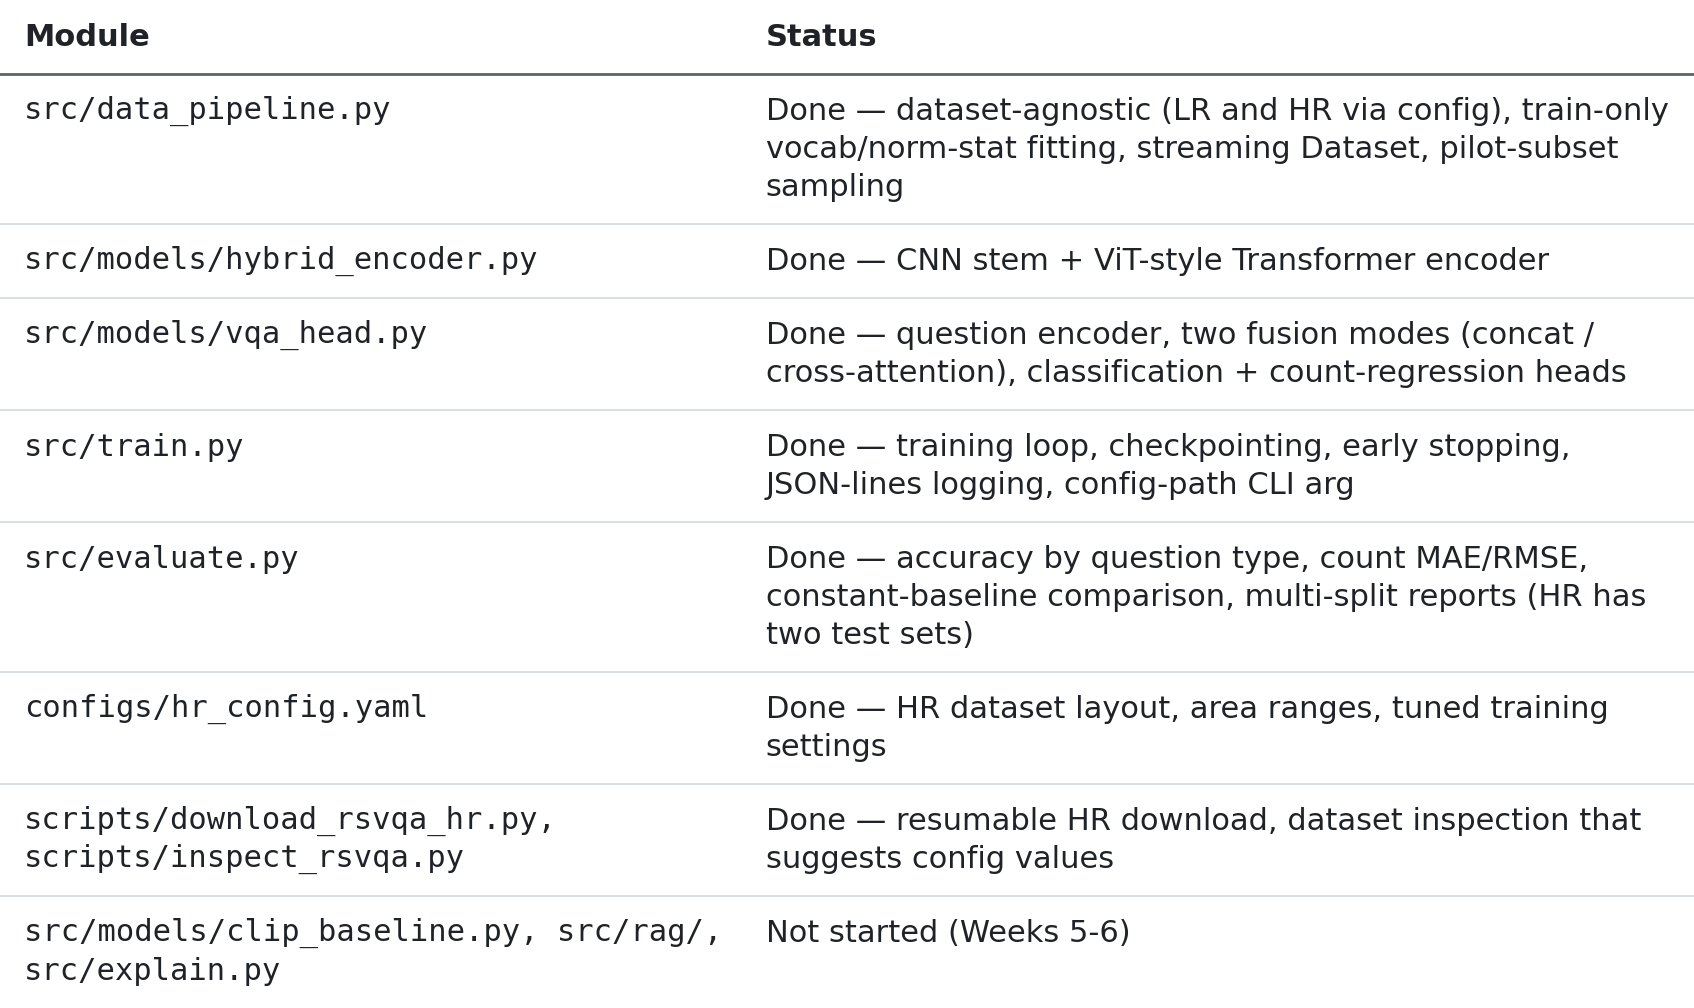
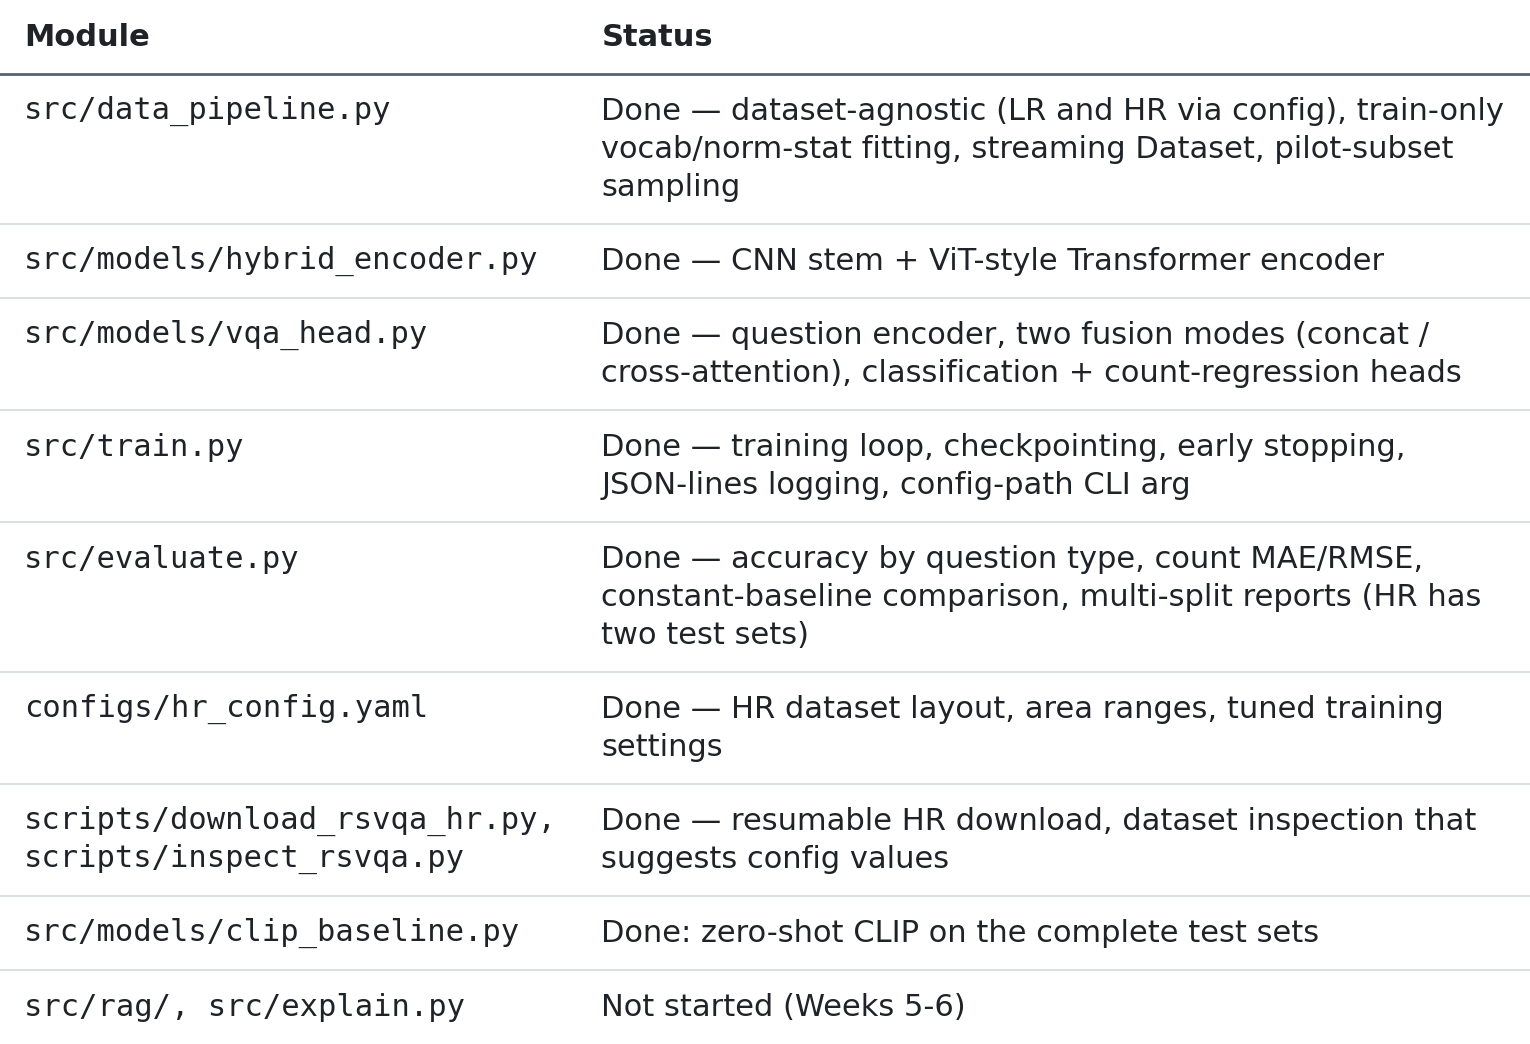
Record zero-shot CLIP results on the complete test sets

Changed region(s): [[0.0, 0.0, 1.0, 0.9841], [0.0, 0.6458, 0.2765, 0.7381], [0.0, 0.3998, 0.1536, 0.4613]]

diff --git a/README.md b/README.md
@@ -17,7 +17,7 @@ follows.
 **Week 1 (RSVQA-LR pipeline) is complete, trained, and evaluated.**
 **Weeks 2-4 (RSVQA-HR port, tuning, full run) are complete, trained, and evaluated.**
 
-<img src="reports/figures/table_01.png" alt="Status: Module, Status" width="847">
+<img src="reports/figures/table_01.png" alt="Status: Module, Status" width="765">
 
 <details><summary>Table as text</summary>
 
@@ -30,7 +30,8 @@ follows.
 | `src/evaluate.py` | Done — accuracy by question type, count MAE/RMSE, constant-baseline comparison, multi-split reports (HR has two test sets) |
 | `configs/hr_config.yaml` | Done — HR dataset layout, area ranges, tuned training settings |
 | `scripts/download_rsvqa_hr.py`, `scripts/inspect_rsvqa.py` | Done — resumable HR download, dataset inspection that suggests config values |
-| `src/models/clip_baseline.py`, `src/rag/`, `src/explain.py` | Not started (Weeks 5-6) |
+| `src/models/clip_baseline.py` | Done: zero-shot CLIP on the complete test sets |
+| `src/rag/`, `src/explain.py` | Not started (Weeks 5-6) |
 
 </details>
 
@@ -67,7 +68,7 @@ same model, optimizer, schedule, early-stopping and random state.
 Week 3 tuning is done (see Week 3 tuning below): small model, learning rate 1.5e-4. The Week 4 full
 run is done too (see HR full run below): 90.2% test accuracy, count MAE 0.91.
 
-**Next:** Week 5 (CLIP baseline, XAI).
+**Next:** Week 5 (XAI).
 
 ### Week 1 baseline results (RSVQA-LR, 5 epochs, GPU)
 
@@ -362,6 +363,41 @@ complete test sets. One seed each.
   a different learning rate. Most of its 3.7-point lead over this pilot's 77.6% can't be separated between
   the two, as Run 3 was not evaluated on the complete set.
 
+### CLIP baseline (zero-shot, complete test sets)
+
+`openai/clip-vit-large-patch14` with no training on RSVQA: for each question it scores one sentence per
+candidate answer against the tile and takes the best. Candidates come from the train split, the sentence
+template was chosen on validation, and each test set was scored once. Report:
+`reports/baseline_results_clip_vit-large-patch14.md`.
+
+<img src="reports/figures/table_11.png" alt="CLIP baseline (zero-shot, complete test sets): Metric, test ours, test CLIP, test trivial, test_phili ours, test_phili CLIP, test_phili trivial" width="864">
+
+<details><summary>Table as text</summary>
+
+| Metric | `test` ours | `test` CLIP | `test` trivial | `test_phili` ours | `test_phili` CLIP | `test_phili` trivial |
+|---|---|---|---|---|---|---|
+| Accuracy (overall) | 90.2% | 49.5% | 63.7% | 76.9% | 55.0% | 61.5% |
+| Accuracy (presence) | 91.7% | 53.2% | 60.8% | 80.2% | 55.8% | 57.3% |
+| Accuracy (comp) | 90.9% | 49.6% | 66.6% | 79.6% | 57.4% | 66.6% |
+| Accuracy (area) | 86.1% | 42.7% | 62.4% | 64.8% | 48.0% | 57.4% |
+| Count MAE | 0.91 | 14.13 | 2.16 | 4.90 | 11.33 | 5.25 |
+| Count RMSE | 2.34 | 20.37 | 5.42 | 13.58 | 17.31 | 14.10 |
+
+</details>
+
+"Trivial" always gives the most common train answer for the question type, or the train median for count.
+
+- **Zero-shot CLIP is below the trivial guess on every question type, in both test sets.** Our model leads
+  CLIP by 40.8 points on `test` and 21.9 on `test_phili`.
+- **This is a low bar.** It mainly shows that a model trained on this task beats an untrained general one.
+  It does not show that our architecture is better than a CLIP-based model fine-tuned on RSVQA.
+- **The comparison is not like for like.** CLIP sees 224×224 (about 34 cm per pixel, against our 15 cm),
+  which works against it. It only chooses among answers valid for the question type, which works for it.
+- **Template choice.** The selection score was dominated by count error, but the chosen template
+  `{question} {answer}` also had the best validation accuracy (48.8%, against 39.9% and 43.7%), so that
+  weighting did not change the choice.
+- **Unexplained:** CLIP scores 5.5 points higher on `test_phili` than on `test`, while our model drops 13.4.
+
 ## Key design decisions
 
 - **Count questions are a regression target**, not a classification bucket.
@@ -491,7 +527,7 @@ To train on a GPU instead:
 All hyperparameters live in `configs/model_config.yaml` (LR) /
 `configs/hr_config.yaml` (HR):
 
-<img src="reports/figures/table_11.png" alt="Configuration: Key, Meaning" width="859">
+<img src="reports/figures/table_12.png" alt="Configuration: Key, Meaning" width="859">
 
 <details><summary>Table as text</summary>
 
@@ -529,7 +565,7 @@ src/
 ├── models/
 │   ├── hybrid_encoder.py  # CNN stem + Transformer encoder
 │   ├── vqa_head.py        # question encoder, fusion (concat/cross-attention), dual heads, loss
-│   └── clip_baseline.py   # zero-shot CLIP comparison (not started)
+│   └── clip_baseline.py   # zero-shot CLIP comparison
 ├── rag/                   # retrieval + LLM explanation layer (not started)
 ├── train.py
 ├── evaluate.py

diff --git a/reports/baseline_results_clip_vit-large-patch14.md b/reports/baseline_results_clip_vit-large-patch14.md
@@ -1,0 +1,47 @@
+# Results: zero-shot CLIP (openai/clip-vit-large-patch14)
+
+## Sentence template, chosen on val
+
+| Template | Val score | Val accuracy | Val count MAE |
+|---|---|---|---|
+| `{question} {answer}` | -4.4176 (chosen) | 0.4882 | 13.2596 |
+| `Question: {question} Answer: {answer}` | -7.0243 | 0.3990 | 18.9117 |
+| `An aerial image. Question: {question} Answer: {answer}` | -16.9051 | 0.4371 | 41.1814 |
+
+## Split: test
+
+| Metric | Value |
+|---|---|
+| Classification accuracy (overall) | 0.4947 |
+| Classification accuracy (presence) | 0.5315 |
+| Classification accuracy (comp) | 0.4957 |
+| Classification accuracy (area) | 0.4273 |
+| Count MAE | 14.1309 |
+| Count RMSE | 20.3719 |
+| Count MAE (always predict train median) | 2.1550 |
+| Count RMSE (always predict train median) | 5.4177 |
+| Accuracy, always the most common train answer (overall) | 0.6371 |
+| Accuracy, always the most common train answer (presence) | 0.6082 |
+| Accuracy, always the most common train answer (area) | 0.6240 |
+| Accuracy, always the most common train answer (comp) | 0.6662 |
+
+294,196 sentences encoded, 3.0 min
+
+## Split: test_phili
+
+| Metric | Value |
+|---|---|
+| Classification accuracy (overall) | 0.5495 |
+| Classification accuracy (presence) | 0.5583 |
+| Classification accuracy (comp) | 0.5737 |
+| Classification accuracy (area) | 0.4795 |
+| Count MAE | 11.3254 |
+| Count RMSE | 17.3088 |
+| Count MAE (always predict train median) | 5.2480 |
+| Count RMSE (always predict train median) | 14.1048 |
+| Accuracy, always the most common train answer (overall) | 0.6147 |
+| Accuracy, always the most common train answer (presence) | 0.5725 |
+| Accuracy, always the most common train answer (comp) | 0.6657 |
+| Accuracy, always the most common train answer (area) | 0.5742 |
+
+168,781 sentences encoded, 1.7 min
